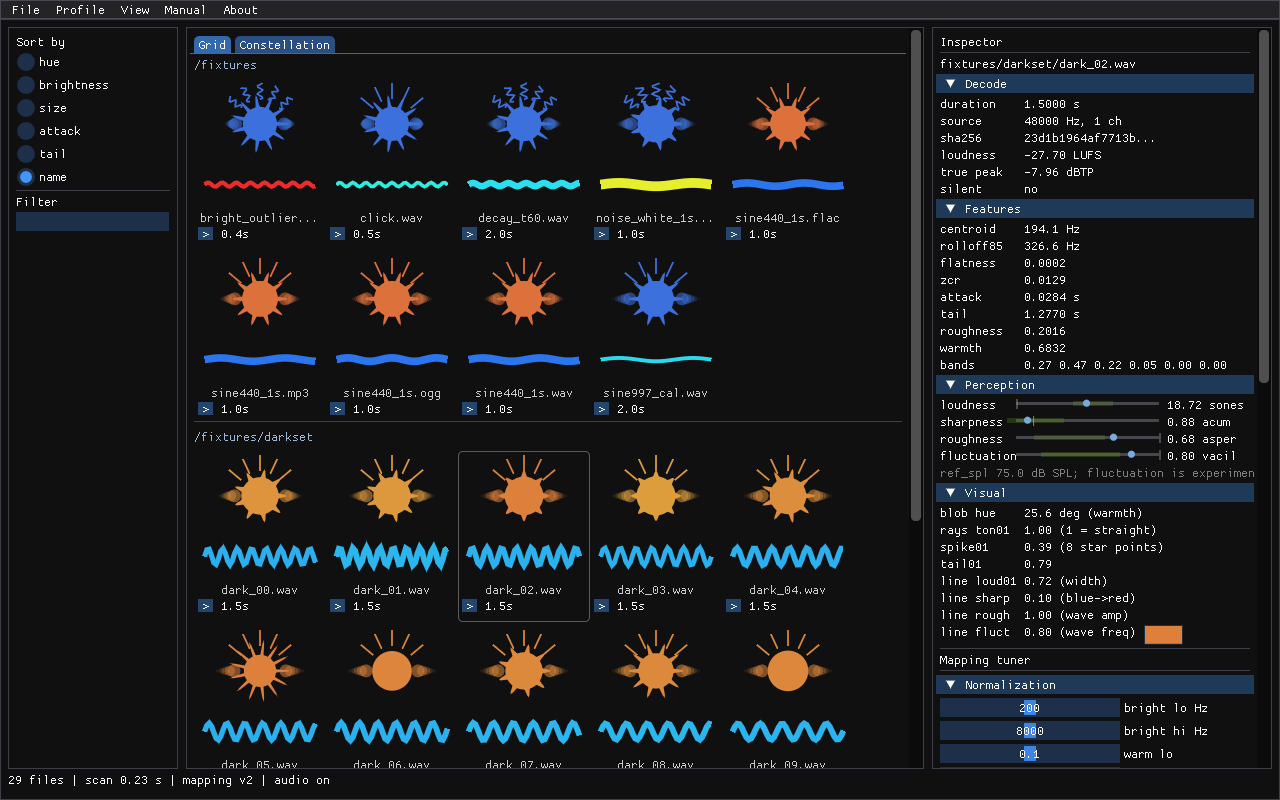
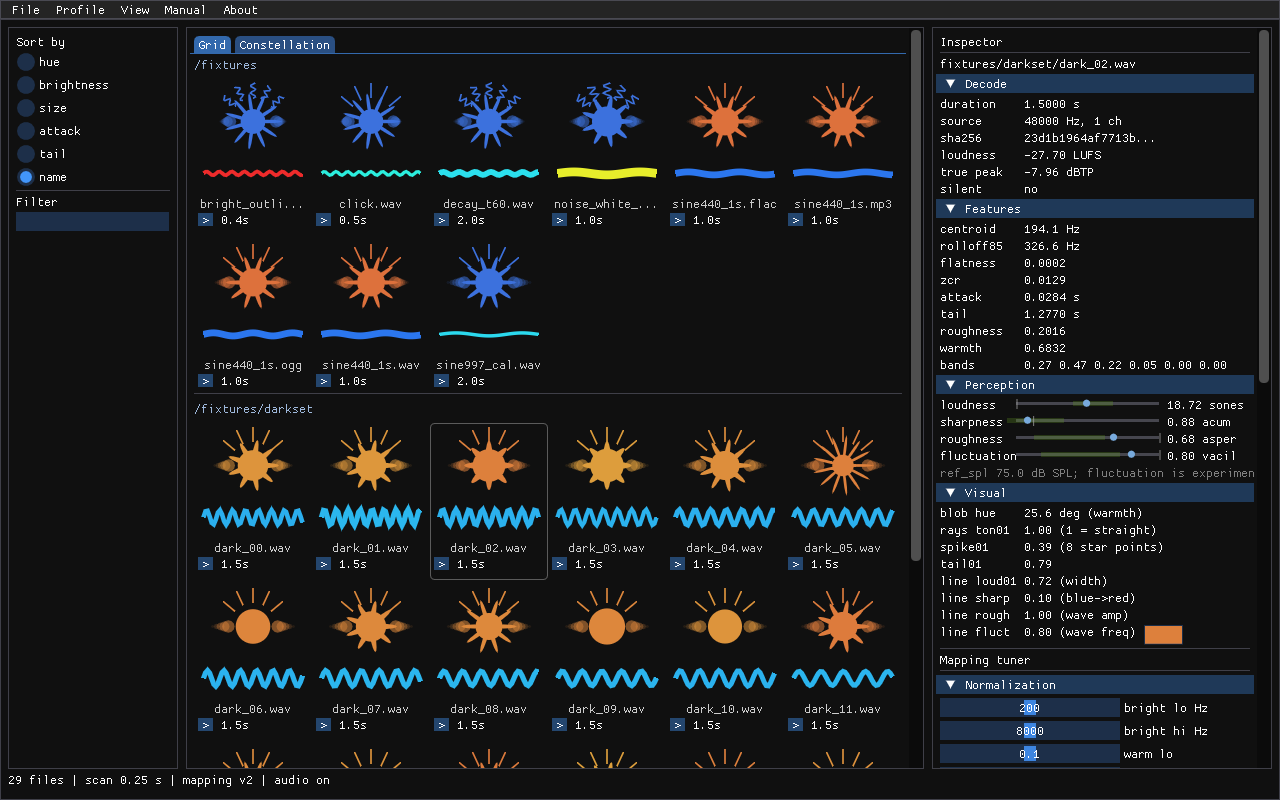
core+gui: star extremes, half-glyph manual strips, tighter grid
- Attack outline pushed to a true star: cosine^1.5 broad triangular
  points with a deep valley dip (1.50 : 0.45, ~3.3:1 contrast at full
  attack) instead of narrow needles on a still-round blob. Shape picked
  from a rendered side-by-side sweep of four candidates.
- The manual's spectrum strips now draw only the half a section talks
  about (draw_glyph GlyphPart full/blob/line, single parts centered);
  line-only strips take a half-height row.
- GUI grid packs tighter: cell 132 -> 118 px, glyph-scale margin
  6 -> 2 px, blob offset rebalanced — glyphs sit closer at near-equal
  size and still never intersect at max tail/star/wave envelopes.

Golden sheet.svg regenerated (outline geometry only); 55/55 unit,
golden_scan + svg_valid green; docs/screenshot.png recaptured.

Changed region(s): [[0.1562, 0.0938, 0.7188, 0.9688], [0.4688, 0.3125, 0.5625, 0.4062], [0.5625, 0.2812, 0.5938, 0.3125]]

diff --git a/app/gui/manual.cpp b/app/gui/manual.cpp
@@ -69,19 +69,23 @@ void strip_labels(ImVec2 origin, float width, const char *lo, const char *hi) {
 
 // Five glyphs sweeping a single parameter from t = 0 to 1 (everything else at the baseline),
 // through the same draw_glyph the grid uses — so the strip is the mapping, not an artist's
-// impression of it.
+// impression of it. Only the half the section talks about is drawn (blob sections show the
+// blob, line sections the line), so the one thing that changes is the only thing on screen;
+// line-only strips take a shorter row since the wave has no vertical fan to make room for.
 template <typename MakeVisualAt>
-void spectrum_strip(const char *lo, const char *hi, float cell, MakeVisualAt at) {
+void spectrum_strip(const char *lo, const char *hi, float cell, GlyphPart part, MakeVisualAt at) {
     constexpr int kSteps = 5;
+    const float row_h = part == GlyphPart::line ? 0.5f * cell : cell;
     ImVec2 origin = ImGui::GetCursorScreenPos();
     ImDrawList *draw = ImGui::GetWindowDrawList();
     for (int i = 0; i < kSteps; ++i) {
         const double t = static_cast<double>(i) / (kSteps - 1);
-        draw_glyph(draw, at(t),
-                   ImVec2(origin.x + (static_cast<float>(i) + 0.5f) * cell, origin.y + 0.5f * cell),
-                   cell);
+        draw_glyph(
+            draw, at(t),
+            ImVec2(origin.x + (static_cast<float>(i) + 0.5f) * cell, origin.y + 0.5f * row_h), cell,
+            part);
     }
-    ImGui::Dummy(ImVec2(cell * kSteps, cell));
+    ImGui::Dummy(ImVec2(cell * kSteps, row_h));
     strip_labels(origin, cell * kSteps, lo, hi);
 }
 
@@ -149,7 +153,7 @@ void draw_manual(AppState &state) {
         "orange toward red as warmth grows - the hue path literally runs cold to hot. A bright "
         "UI blip sits blue; a deep explosion or bass swell sits orange/red.",
         c.hue_base_deg);
-    spectrum_strip("cold / thin", "warm / bassy", cell, [&](double t) {
+    spectrum_strip("cold / thin", "warm / bassy", cell, GlyphPart::blob, [&](double t) {
         sp::Visual v = spectrum_base();
         v.hue_deg = c.hue_base_deg - c.hue_warm_span_deg * t;
         return v;
@@ -166,11 +170,12 @@ void draw_manual(AppState &state) {
         "pitched, tonal material (chimes, hums, musical stingers) shines perfectly straight "
         "rays; noise-like material (wind, static, impacts) makes them wobble. Think of it as "
         "the sound's radiance - organized sound radiates cleanly, noise flickers.");
-    spectrum_strip("noise-like / wavy rays", "tonal / straight rays", cell, [&](double t) {
-        sp::Visual v = spectrum_base();
-        v.ton01 = t;
-        return v;
-    });
+    spectrum_strip("noise-like / wavy rays", "tonal / straight rays", cell, GlyphPart::blob,
+                   [&](double t) {
+                       sp::Visual v = spectrum_base();
+                       v.ton01 = t;
+                       return v;
+                   });
 
     ImGui::SeparatorText("3. Attack -> star spikes");
     ImGui::TextWrapped(
@@ -180,14 +185,16 @@ void draw_manual(AppState &state) {
         "so a hard transient is unmistakable at a glance. Clicks and hits are stars; pads and "
         "swells stay round.",
         c.atk_lo_s * 1000.0, c.atk_hi_s * 1000.0);
-    spectrum_strip("slow attack / round", "instant attack / star", cell, [&](double t) {
-        sp::Visual v = spectrum_base();
-        v.spike01 = t;
-        v.spikes = t > c.spike_threshold
-                       ? static_cast<int>(std::lround(c.spike_count_base + c.spike_count_span * t))
-                       : 0;
-        return v;
-    });
+    spectrum_strip(
+        "slow attack / round", "instant attack / star", cell, GlyphPart::blob, [&](double t) {
+            sp::Visual v = spectrum_base();
+            v.spike01 = t;
+            v.spikes =
+                t > c.spike_threshold
+                    ? static_cast<int>(std::lround(c.spike_count_base + c.spike_count_span * t))
+                    : 0;
+            return v;
+        });
 
     ImGui::SeparatorText("4. Decay tail -> blob trail");
     ImGui::TextWrapped(
@@ -196,11 +203,12 @@ void draw_manual(AppState &state) {
         "longer the decay, the wider the wings. Dry one-shots have no trail; long reverbs and "
         "cymbal washes spread far.",
         c.tail_lo_s, c.tail_hi_s);
-    spectrum_strip("dry / no trail", "long decay / wide trail", cell, [&](double t) {
-        sp::Visual v = spectrum_base();
-        v.tail01 = t;
-        return v;
-    });
+    spectrum_strip("dry / no trail", "long decay / wide trail", cell, GlyphPart::blob,
+                   [&](double t) {
+                       sp::Visual v = spectrum_base();
+                       v.tail01 = t;
+                       return v;
+                   });
 
     // ---- Psycho line (lower half) -------------------------------------------------------
     ImGui::SeparatorText("5. Loudness -> line width (sones)");
@@ -216,7 +224,7 @@ void draw_manual(AppState &state) {
                           c.loud_sone_div * c.loud_sone_div);
             return hi_buf;
         }(),
-        cell,
+        cell, GlyphPart::line,
         [&](double t) {
             sp::Visual v = spectrum_base();
             v.loud01 = t;
@@ -230,7 +238,7 @@ void draw_manual(AppState &state) {
         "muffled sounds, through cyan, green, and yellow, to red for harsh, hissy ones. Note "
         "this is the LINE's color scale - the blob's hue above encodes warmth, a different "
         "dimension with its own (similar-looking) spectrum.");
-    spectrum_strip("dull (blue line)", "sharp (red line)", cell, [&](double t) {
+    spectrum_strip("dull (blue line)", "sharp (red line)", cell, GlyphPart::line, [&](double t) {
         sp::Visual v = spectrum_base();
         v.sharp01 = t;
         return v;
@@ -247,7 +255,7 @@ void draw_manual(AppState &state) {
         "distortion. Rough sounds swing the line harder: taller waves at whatever cycle count "
         "fluctuation sets.");
     std::snprintf(hi_buf, sizeof hi_buf, ">= %.1f asper (tall swings)", c.jitter_asper_hi);
-    spectrum_strip("steady (near-flat)", hi_buf, cell, [&](double t) {
+    spectrum_strip("steady (near-flat)", hi_buf, cell, GlyphPart::line, [&](double t) {
         sp::Visual v = spectrum_base();
         v.jitter01 = t;
         return v;
@@ -259,7 +267,7 @@ void draw_manual(AppState &state) {
         "at 4 Hz instead) is slow envelope movement - tremolo, breathing, wobble. More "
         "fluctuation adds more wave cycles along the line.");
     std::snprintf(hi_buf, sizeof hi_buf, ">= %.1f vacil (many cycles)", c.fluct_vacil_hi);
-    spectrum_strip("static (few cycles)", hi_buf, cell, [&](double t) {
+    spectrum_strip("static (few cycles)", hi_buf, cell, GlyphPart::line, [&](double t) {
         sp::Visual v = spectrum_base();
         v.fluct01 = t;
         return v;

diff --git a/app/gui/grid.cpp b/app/gui/grid.cpp
@@ -14,7 +14,7 @@ namespace spapp {
 
 namespace {
 
-constexpr float kCellPx = 132.0f; // glyph area at 100 % scale; §9's 120 px SVG cell + margin
+constexpr float kCellPx = 118.0f; // glyph area at 100 % scale; tightened so glyphs sit closer
 constexpr float kLabelPx = 16.0f; // filename line beneath the glyph, at 100 % scale
 constexpr int kTailCircles = 5;   // §7 decay tail
 
@@ -23,57 +23,64 @@ const char *kDimNames[8] = {"bright01", "warm01", "ton01",    "atk01",
 
 // Scale so the largest possible glyph envelope fits the cell: with blob_size_px 20 the
 // widest extent is the mirrored tail (~49 authored px from center) and the tallest is the
-// ray tips (~41 px above the blob center).
+// ray tips (~41 px above the blob center). The 2 px margin keeps neighboring glyphs from
+// touching even at full tail spread while packing the grid tight.
 float glyph_scale(float cell_px) {
-    return (cell_px * 0.5f - 6.0f) / 55.0f;
+    return (cell_px * 0.5f - 2.0f) / 55.0f;
 }
 
 } // namespace
 
 // Also used by the manual's example glyphs (manual.cpp). Split glyph: analytic blob in the
 // upper half of the cell, psychoacoustic line in the lower half (silent files: dot only).
-void draw_glyph(ImDrawList *draw, const sp::Visual &v, ImVec2 center, float cell_px) {
+// A single part draws centered in the cell instead of at its half's offset.
+void draw_glyph(ImDrawList *draw, const sp::Visual &v, ImVec2 center, float cell_px,
+                GlyphPart part) {
     const float scale = glyph_scale(cell_px);
-    const ImVec2 blob_center(center.x, center.y - 0.16f * cell_px);
+    const ImVec2 blob_center(center.x, part == GlyphPart::blob ? center.y + 0.05f * cell_px
+                                                               : center.y - 0.14f * cell_px);
 
-    std::vector<std::array<float, 2>> outline = sp::glyph_outline(v);
-    std::vector<ImVec2> pts(outline.size());
-    for (std::size_t i = 0; i < outline.size(); ++i) {
-        pts[i] =
-            ImVec2(blob_center.x + outline[i][0] * scale, blob_center.y + outline[i][1] * scale);
-    }
-    unsigned int fill = hsl_to_rgba(v.hue_deg, v.sat, v.light, 1.0);
-    draw->AddConcavePolyFilled(pts.data(), static_cast<int>(pts.size()), fill);
-
-    // Tonality rays: straight fan = tonal, wobbling fan = noise-like (same geometry as the
-    // SVG sheet via glyph_rays).
-    for (const std::vector<std::array<float, 2>> &ray : sp::glyph_rays(v)) {
-        for (const std::array<float, 2> &p : ray) {
-            draw->PathLineTo(ImVec2(blob_center.x + p[0] * scale, blob_center.y + p[1] * scale));
+    if (part != GlyphPart::line) {
+        std::vector<std::array<float, 2>> outline = sp::glyph_outline(v);
+        std::vector<ImVec2> pts(outline.size());
+        for (std::size_t i = 0; i < outline.size(); ++i) {
+            pts[i] = ImVec2(blob_center.x + outline[i][0] * scale,
+                            blob_center.y + outline[i][1] * scale);
         }
-        draw->PathStroke(fill, 0, std::max(1.0f, 1.6f * scale));
-    }
+        unsigned int fill = hsl_to_rgba(v.hue_deg, v.sat, v.light, 1.0);
+        draw->AddConcavePolyFilled(pts.data(), static_cast<int>(pts.size()), fill);
 
-    // Decay tail (§7, ray revision): 5 circles on EACH side, starting at the blob edge,
-    // shrinking/fading, spread tail01 * 1.15 * size per side.
-    if (v.tail01 >= 0.05) {
-        const double spread = v.tail01 * 1.15 * v.size_px;
-        for (int i = 0; i < kTailCircles; ++i) {
-            double t = static_cast<double>(i) / (kTailCircles - 1);
-            double dx =
-                (v.size_px + ((i + 1) / static_cast<double>(kTailCircles)) * spread) * scale;
-            double radius = 0.30 * v.size_px * (1.0 - 0.75 * t) * scale;
-            double opacity = 0.55 + (0.10 - 0.55) * t;
-            unsigned int col = hsl_to_rgba(v.hue_deg, v.sat, v.light, opacity);
-            draw->AddCircleFilled(ImVec2(blob_center.x - static_cast<float>(dx), blob_center.y),
-                                  static_cast<float>(radius), col);
-            draw->AddCircleFilled(ImVec2(blob_center.x + static_cast<float>(dx), blob_center.y),
-                                  static_cast<float>(radius), col);
+        // Tonality rays: straight fan = tonal, wobbling fan = noise-like (same geometry as
+        // the SVG sheet via glyph_rays).
+        for (const std::vector<std::array<float, 2>> &ray : sp::glyph_rays(v)) {
+            for (const std::array<float, 2> &p : ray) {
+                draw->PathLineTo(
+                    ImVec2(blob_center.x + p[0] * scale, blob_center.y + p[1] * scale));
+            }
+            draw->PathStroke(fill, 0, std::max(1.0f, 1.6f * scale));
+        }
+
+        // Decay tail (§7, ray revision): 5 circles on EACH side, starting at the blob edge,
+        // shrinking/fading, spread tail01 * 1.15 * size per side.
+        if (v.tail01 >= 0.05) {
+            const double spread = v.tail01 * 1.15 * v.size_px;
+            for (int i = 0; i < kTailCircles; ++i) {
+                double t = static_cast<double>(i) / (kTailCircles - 1);
+                double dx =
+                    (v.size_px + ((i + 1) / static_cast<double>(kTailCircles)) * spread) * scale;
+                double radius = 0.30 * v.size_px * (1.0 - 0.75 * t) * scale;
+                double opacity = 0.55 + (0.10 - 0.55) * t;
+                unsigned int col = hsl_to_rgba(v.hue_deg, v.sat, v.light, opacity);
+                draw->AddCircleFilled(ImVec2(blob_center.x - static_cast<float>(dx), blob_center.y),
+                                      static_cast<float>(radius), col);
+                draw->AddCircleFilled(ImVec2(blob_center.x + static_cast<float>(dx), blob_center.y),
+                                      static_cast<float>(radius), col);
+            }
         }
     }
 
-    if (v.silent) {
-        return; // the fixed gray dot above is the whole story
+    if (v.silent || part == GlyphPart::blob) {
+        return; // silent: the fixed gray dot above is the whole story
     }
 
     // Psycho line (lower half): width = loudness (linear in sones -> honest line area),
@@ -94,7 +101,7 @@ void draw_glyph(ImDrawList *draw, const sp::Visual &v, ImVec2 center, float cell
 
     const float x0 = center.x - 0.42f * cell_px;
     const float x1 = center.x + 0.42f * cell_px;
-    const float ly = center.y + 0.30f * cell_px;
+    const float ly = part == GlyphPart::line ? center.y : center.y + 0.30f * cell_px;
     const int n = 48;
     for (int i = 0; i <= n; ++i) {
         const float t = static_cast<float>(i) / n;

diff --git a/core/src/glyph.cpp b/core/src/glyph.cpp
@@ -153,10 +153,10 @@ std::string error_mark_fragment(double cx, double cy, double size) {
 } // namespace
 
 std::vector<std::array<float, 2>> glyph_outline(const Visual &v, int base_points) {
-    // Star silhouette: cosine^3 lobes make narrow points, and the radius dips between them
-    // so a fast attack carves valleys instead of just bumping the outline — at spike01 = 1
-    // the point-to-valley ratio is 1.45 : 0.70, a star the eye catches immediately, while
-    // slow attacks stay perfectly round. Sampling snaps to a multiple of the spike count so
+    // Star silhouette: cosine^1.5 lobes make broad triangular points, and the radius dips
+    // deeply between them so the extreme end is a true star, not spikes on a round blob —
+    // at spike01 = 1 the point-to-valley ratio is 1.50 : 0.45 (~3.3 : 1), while slow
+    // attacks stay perfectly round. Sampling snaps to a multiple of the spike count so
     // every point lands exactly on a lobe maximum.
     int n = base_points;
     if (v.spikes > 0) {
@@ -171,9 +171,9 @@ std::vector<std::array<float, 2>> glyph_outline(const Visual &v, int base_points
         double shape = 0.0;
         if (v.spikes > 0) {
             const double lobe = std::max(0.0, std::cos(v.spikes * theta));
-            shape = lobe * lobe * lobe;
+            shape = std::pow(lobe, 1.5);
         }
-        double r = v.size_px * (1.0 + v.spike01 * (0.45 * shape - 0.30 * (1.0 - shape)));
+        double r = v.size_px * (1.0 + v.spike01 * (0.50 * shape - 0.55 * (1.0 - shape)));
 
         pts[static_cast<std::size_t>(i)] = {static_cast<float>(r * std::cos(theta)),
                                             static_cast<float>(r * std::sin(theta))};

diff --git a/app/gui/app_state.h b/app/gui/app_state.h
@@ -143,7 +143,11 @@ void draw_manual(AppState &state);
 void draw_about(AppState &state);
 
 // grid.cpp: glyph + decay tail into a cell_px-square cell, shared with the manual's examples.
-void draw_glyph(ImDrawList *draw, const sp::Visual &v, ImVec2 center, float cell_px);
+// The manual's spectrum strips draw only the half a section talks about (centered in the
+// cell); the grid and the example rows draw the full split glyph.
+enum class GlyphPart { full, blob, line };
+void draw_glyph(ImDrawList *draw, const sp::Visual &v, ImVec2 center, float cell_px,
+                GlyphPart part = GlyphPart::full);
 
 // harmonize_panel.cpp (M9, extension §6.5).
 bool load_baseline(AppState &state, const std::string &path); // manifest OR .sppal.json

diff --git a/NOTES.md b/NOTES.md
@@ -663,3 +663,21 @@ Goldens (palette.json, sheet.svg) and assets/mapping_v2.json regenerated deliber
 the new Visual field + geometry. Verified: 55/55 unit, 18/18 integration (incl. MCP smoke),
 grid + manual + sheet_png screenshots inspected at 2x zoom — noise (zigzag rays) vs sine
 (straight fan), click star vs pad round, and mirrored tails all read at a glance.
+
+## Glyph revision follow-ups (user feedback, 2026-07-06)
+
+- **True star at the extreme**: the outline formula moved from cosine^3 narrow needles with
+  a mild dip (1.45 : 0.70) to cosine^1.5 broad triangular points with a deep dip —
+  1.50 : 0.45 (~3.3 : 1) at spike01 = 1, so the extreme is a star, not spikes on a round
+  blob. Constants chosen from a rendered side-by-side sweep of four candidate shapes.
+- **Manual strips show only the changing half**: draw_glyph gained a GlyphPart (full/blob/
+  line) parameter; sections 1–4 draw the blob alone, 5–8 the line alone, each centered in
+  its cell, line rows at half height. The example table still draws full glyphs.
+- **Tighter grid**: GUI cell 132 → 118 px with the glyph-scale margin cut 6 → 2 px and the
+  blob offset rebalanced (−0.16 → −0.14 cell), so glyphs sit noticeably closer (6 columns
+  where 5 fit before) at near-identical size, still without intersecting at max tail/star/
+  wave envelopes. SVG sheet cell stays the §9-spec 120 px.
+
+golden sheet.svg regenerated (outline geometry only; palette.json byte-identical). 55/55
+unit, golden_scan + svg_valid re-run green, manual + grid screenshots inspected;
+docs/screenshot.png recaptured with the tighter grid.
